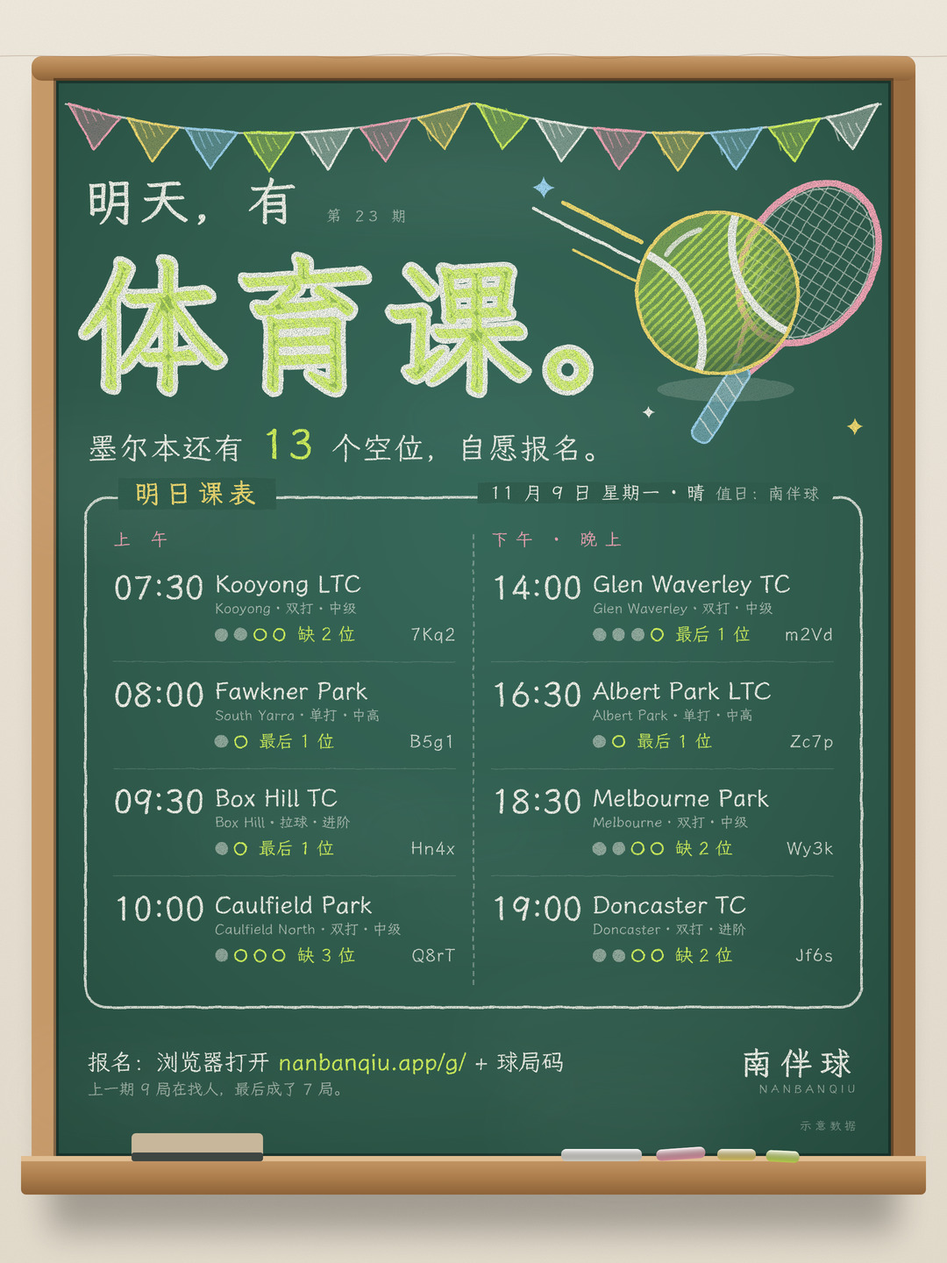
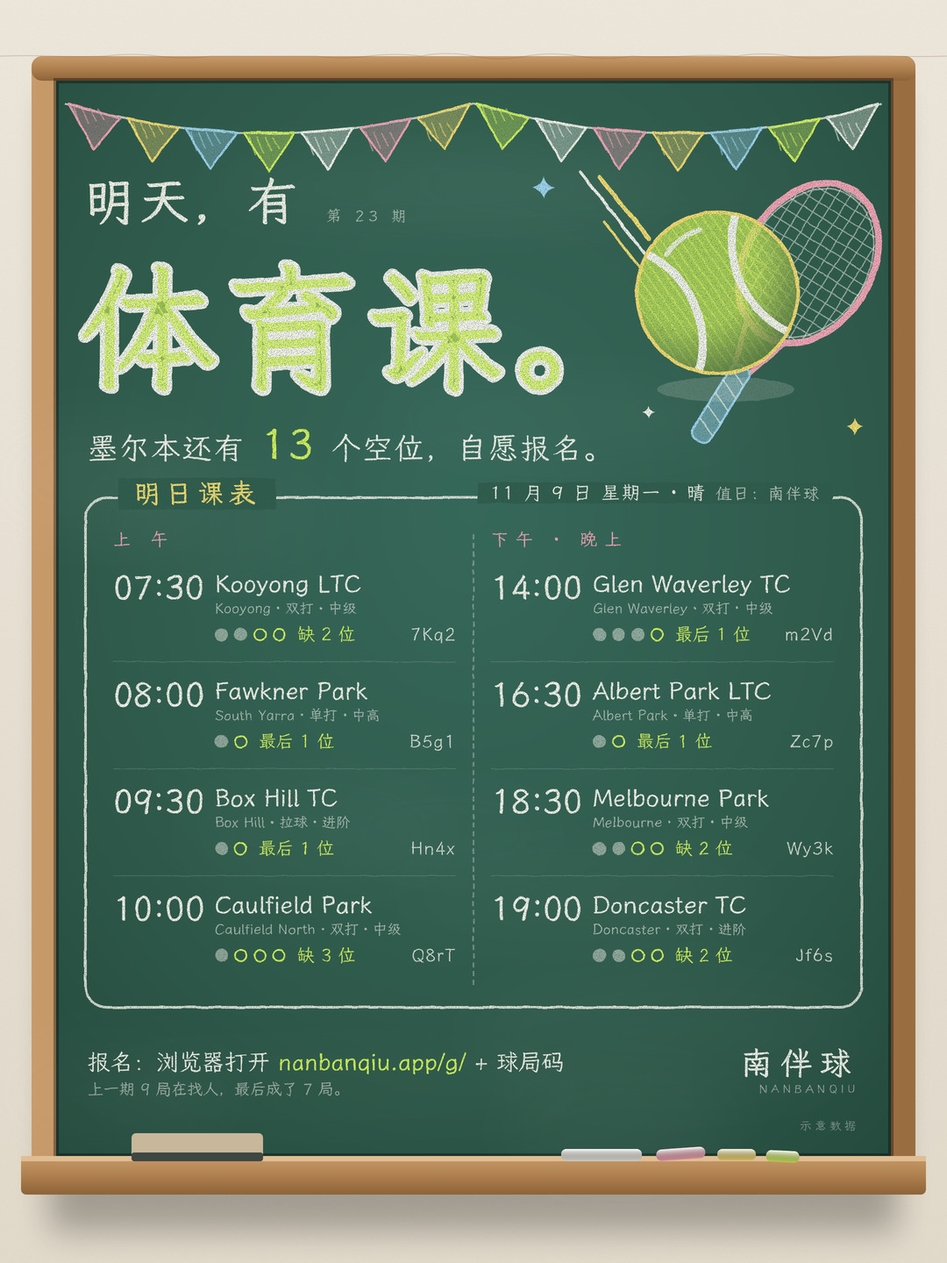
每日球局海报：黑板报模板系统（6 套皮肤每周一换 × 3 个创意每天轮换）
- chalkframe.SKINS：赶集 / 春日 / 夜场 / 花园 / 线描 / 国风，各自的板色、边框、装饰、标题字效、信息框样式；pick(日期) 决定当天组合
- 出图检查：插画压住文字也查 SVG 文字，按真实墨迹算；data-fx 光晕 / 影子层跳过；用真正盖住文字的反例验证会报错
- 修掉检查新抓出的问题：传纸条纸飞机、国风印章、挂板版速度线和球的排线、Rally 背景层命名
- 18 种组合 + 全部旧模板出图检查全过；演示数据

Claude-Session: https://claude.ai/code/session_014vi3eYkzAwaNbsywDq4bQj

Changed region(s): [[0.0917, 0.1875, 0.6417, 0.3125], [0.5806, 0.125, 0.8556, 0.3125]]

diff --git a/marketing/digest/chalkframe.py b/marketing/digest/chalkframe.py
@@ -5,6 +5,8 @@ from chalkbase import FONT_DIR, WK
 from common import *
 W_, LM, PK, YL, BL = '#F4F2EA', '#D4F25A', '#F5A3B5', '#F6DB6E', '#9ED3F0'
 SLATE = '#2F5A4B'
+CUR = ['fair']
+SEAL_AT = [(560, 404)]          # 国风印章位置，由版式设置
 BX0, BY0, BX1, BY1 = 64, 92, 1016, 1318
 
 def bunting():
@@ -21,10 +23,26 @@ def bunting():
     return f'<g class="art">{out}</g>'
 
 def title(text, x, y, size, fill='url(#hl)', stroke=W_):
-    return f'<text x="{x}" y="{y}" font-family="{WK}" font-weight="700" font-size="{size}" letter-spacing="6" fill="{fill}" stroke="{stroke}" stroke-width="{size*.068:.1f}" stroke-linejoin="round" paint-order="stroke">{text}</text>'
+    """标题字。fill='url(#hl)' 是强调行，按当前皮肤的字效画；其余是白粉笔行。"""
+    mode = SKINS[CUR[0]]['tmode']; hi = fill == 'url(#hl)'
+    base = f'x="{x}" y="{y}" font-family="{WK}" font-weight="700" font-size="{size}" letter-spacing="6"'
+    sw = f'{size*.068:.1f}'
+    if mode == 'hollow':   # 空心描边 + 错位影子
+        sh = f'<text data-fx="1" x="{x+7}" y="{y+7}" font-family="{WK}" font-weight="700" font-size="{size}" letter-spacing="6" fill="none" stroke="{LM if hi else BL}" stroke-width="2.6" opacity=".8">{text}</text>'
+        return sh + f'<text {base} fill="none" stroke="{W_}" stroke-width="3.4" stroke-linejoin="round">{text}</text>'
+    if not hi: return f'<text {base} fill="{fill}" stroke="{stroke}" stroke-width="{sw}" stroke-linejoin="round" paint-order="stroke">{text}</text>'
+    if mode == 'multi':    # 每个字一种颜色
+        pats = ['hp', 'hy', 'hb', 'hl']; tsp = ''.join(f'<tspan fill="url(#{pats[i % 4]})">{ch}</tspan>' for i, ch in enumerate(text))
+        return f'<text {base} stroke="{W_}" stroke-width="{sw}" stroke-linejoin="round" paint-order="stroke">{tsp}</text>'
+    if mode == 'neon':     # 霓虹：外层彩色光晕 + 白芯
+        c = SKINS[CUR[0]]['title']
+        return f'<text data-fx="1" {base} fill="{c}" opacity=".9" filter="url(#glow)">{text}</text><text {base} fill="{c}" stroke="#FFF7D6" stroke-width="2.4" paint-order="stroke">{text}</text>'
+    if mode == 'seal':     # 朱红 + 金描边
+        return f'<text {base} fill="url(#hl)" stroke="#E9C46A" stroke-width="{sw}" stroke-linejoin="round" paint-order="stroke">{text}</text>'
+    return f'<text {base} fill="url(#hl)" stroke="{stroke}" stroke-width="{sw}" stroke-linejoin="round" paint-order="stroke">{text}</text>'
 
-def framed(chalk_svg, chalk_html, css='', paper_html='', seed=7):
-    random.seed(seed)
+def framed(chalk_svg, chalk_html, css='', paper_html='', seed=7, skin='fair'):
+    random.seed(seed); K = SKINS[skin]
     wood = ''.join(f'<path d="M{x} 0 q 30 {random.randint(-6,6)} 60 0 t 60 0" stroke="#7A5233" stroke-opacity=".25" fill="none"/>' for x in range(0, 1080, 120))
     smudge = ''.join(f'<ellipse cx="{random.randint(BX0,BX1)}" cy="{random.randint(BY0,BY1)}" rx="{random.randint(120,320)}" ry="{random.randint(30,90)}" fill="#fff" opacity="{random.uniform(.015,.035):.3f}" filter="url(#bl)"/>' for _ in range(12))
     return f'''<!doctype html><meta charset="utf-8">
@@ -37,8 +55,9 @@ body{{width:1080px;height:1440px;overflow:hidden;position:relative;font-family:{
 .how{{position:absolute;left:100px;top:1200px;font-size:26px}} .how b{{color:{LM}}} .how small{{display:block;font-size:18px;opacity:.6;margin-top:4px}}
 .wm{{position:absolute;right:100px;top:1196px;text-align:right;font-weight:700;font-size:36px;letter-spacing:9px}} .wm small{{display:block;font-weight:400;font-size:13px;letter-spacing:4px;opacity:.55}}
 .demo{{position:absolute;right:100px;top:1278px;font-size:13px;letter-spacing:4px;opacity:.45}}
-.tagd{{position:absolute;font-size:21px;padding:0 14px;background:{SLATE};letter-spacing:2px}} .tagd small{{font-size:18px;opacity:.7;margin-left:10px}}
+.tagd{{position:absolute;font-size:21px;padding:0 14px;background:{K['board'][1]};letter-spacing:2px}} .tagd small{{font-size:18px;opacity:.7;margin-left:10px}}
 {css}
+{K.get('css', '')}
 </style><body>
 <svg class="fx" width="1080" height="1440"><defs>
 <filter id="chalk" x="-5%" y="-20%" width="110%" height="140%"><feTurbulence type="fractalNoise" baseFrequency="1.15" numOctaves="2" seed="2" result="n"/>
@@ -48,16 +67,19 @@ body{{width:1080px;height:1440px;overflow:hidden;position:relative;font-family:{
 <filter id="bl" filterUnits="userSpaceOnUse" x="-200" y="-200" width="1480" height="1840"><feGaussianBlur stdDeviation="36"/></filter>
 <filter id="sh" filterUnits="userSpaceOnUse" x="-100" y="-100" width="1280" height="1640"><feGaussianBlur stdDeviation="18"/></filter>
 <filter id="wall"><feTurbulence type="fractalNoise" baseFrequency=".8" numOctaves="2" seed="3"/><feColorMatrix values="0 0 0 0 .4  0 0 0 0 .35  0 0 0 0 .3  0 0 0 .12 0"/></filter>
-<linearGradient id="oak" x1="0" y1="0" x2="0" y2="1"><stop offset="0" stop-color="#C79A6A"/><stop offset=".5" stop-color="#B0814F"/><stop offset="1" stop-color="#8E6339"/></linearGradient>
-<linearGradient id="oakv" x1="0" y1="0" x2="1" y2="0"><stop offset="0" stop-color="#C79A6A"/><stop offset=".5" stop-color="#B0814F"/><stop offset="1" stop-color="#9A6D41"/></linearGradient>
-<radialGradient id="slate" cx="50%" cy="40%" r="80%"><stop offset="0" stop-color="#36685A"/><stop offset=".6" stop-color="{SLATE}"/><stop offset="1" stop-color="#244A3D"/></radialGradient>
+<linearGradient id="oak" x1="0" y1="0" x2="0" y2="1"><stop offset="0" stop-color="{K["frame"][0]}"/><stop offset=".5" stop-color="{K["frame"][1]}"/><stop offset="1" stop-color="{K["frame"][2]}"/></linearGradient>
+<linearGradient id="oakv" x1="0" y1="0" x2="1" y2="0"><stop offset="0" stop-color="{K["frame"][0]}"/><stop offset=".5" stop-color="{K["frame"][1]}"/><stop offset="1" stop-color="{K["frame"][2]}"/></linearGradient>
+<radialGradient id="slate" cx="50%" cy="40%" r="80%"><stop offset="0" stop-color="{K["board"][0]}"/><stop offset=".6" stop-color="{K["board"][1]}"/><stop offset="1" stop-color="{K["board"][2]}"/></radialGradient>
 <linearGradient id="stick" x1="0" y1="0" x2="0" y2="1"><stop offset="0" stop-color="#fff" stop-opacity=".9"/><stop offset="1" stop-color="#000" stop-opacity=".15"/></linearGradient>
-<pattern id="hl" width="9" height="9" patternUnits="userSpaceOnUse" patternTransform="rotate(-35)"><rect width="9" height="9" fill="{LM}" fill-opacity=".7"/><path d="M0 0 V9" stroke="{LM}" stroke-width="4"/></pattern>
+<pattern id="hl" width="9" height="9" patternUnits="userSpaceOnUse" patternTransform="rotate(-35)"><rect width="9" height="9" fill="{K["title"]}" fill-opacity=".7"/><path d="M0 0 V9" stroke="{K["title"]}" stroke-width="4"/></pattern>
+<pattern id="hy" width="9" height="9" patternUnits="userSpaceOnUse" patternTransform="rotate(-35)"><rect width="9" height="9" fill="{YL}" fill-opacity=".7"/><path d="M0 0 V9" stroke="{YL}" stroke-width="4"/></pattern>
+<pattern id="hb" width="9" height="9" patternUnits="userSpaceOnUse" patternTransform="rotate(-35)"><rect width="9" height="9" fill="{BL}" fill-opacity=".7"/><path d="M0 0 V9" stroke="{BL}" stroke-width="4"/></pattern>
+<filter id="glow" filterUnits="userSpaceOnUse" x="0" y="0" width="1080" height="1440"><feGaussianBlur stdDeviation="9"/></filter>
 <pattern id="hp" width="9" height="9" patternUnits="userSpaceOnUse" patternTransform="rotate(-35)"><rect width="9" height="9" fill="{PK}" fill-opacity=".6"/><path d="M0 0 V9" stroke="{PK}" stroke-width="4"/></pattern></defs>
 <rect width="1080" height="1440" filter="url(#wall)"/>
 <rect x="{BX0-8}" y="{BY0+16}" width="{BX1-BX0+16}" height="{BY1-BY0+70}" rx="10" fill="#000" opacity=".28" filter="url(#sh)"/>
 <rect x="{BX0-28}" y="{BY0-28}" width="{BX1-BX0+56}" height="{BY1-BY0+56}" rx="12" fill="url(#oakv)"/>
-<rect x="{BX0-28}" y="{BY0-28}" width="{BX1-BX0+56}" height="28" rx="12" fill="url(#oak)"/><g transform="translate(0 {BY0-28})">{wood}</g>
+<rect x="{BX0-28}" y="{BY0-28}" width="{BX1-BX0+56}" height="28" rx="12" fill="url(#oak)"/><g transform="translate(0 {BY0-28})">{wood if K["grain"] else ""}</g>
 <rect x="{BX0}" y="{BY0}" width="{BX1-BX0}" height="{BY1-BY0}" fill="url(#slate)"/>
 <rect x="{BX0}" y="{BY0}" width="{BX1-BX0}" height="{BY1-BY0}" fill="none" stroke="#000" stroke-opacity=".35" stroke-width="6"/>{smudge}
 <rect x="{BX0-40}" y="{BY1}" width="{BX1-BX0+80}" height="44" rx="6" fill="url(#oak)"/><rect x="{BX0-40}" y="{BY1}" width="{BX1-BX0+80}" height="6" fill="#E0BD92"/>
@@ -66,7 +88,7 @@ body{{width:1080px;height:1440px;overflow:hidden;position:relative;font-family:{
 <g transform="translate(818 {BY1-8})"><rect width="44" height="13" rx="6" fill="{YL}"/><rect width="44" height="13" rx="6" fill="url(#stick)"/></g>
 <g transform="translate(874 {BY1-7}) rotate(3)"><rect width="38" height="13" rx="6" fill="{LM}"/><rect width="38" height="13" rx="6" fill="url(#stick)"/></g>
 <g transform="translate(150 {BY1-26})"><rect width="150" height="28" rx="5" fill="#C8B79A"/><rect y="22" width="150" height="10" rx="3" fill="#3E4642"/></g></svg>
-<div class="chalk"><svg class="fx" width="1080" height="1440">{chalk_svg}</svg>{chalk_html}<div class="demo">示意数据</div></div>
+<div class="chalk"><svg class="fx" width="1080" height="1440">{K["top"]()}{K["bottom"]()}{K.get("sides", lambda: "")()}{chalk_svg}</svg>{chalk_html}</div>
 <div class="paper">{paper_html}</div></body>'''
 
 def date_tag(x, y, right=True):
@@ -74,4 +96,117 @@ def date_tag(x, y, right=True):
     return f'<div class="tagd" style="{side};top:{y}px">{TOMORROW.month} 月 {TOMORROW.day} 日 星期{WD[TOMORROW.weekday()]} · 晴<small>值日：南伴球</small></div>'
 
 def how(verb='报名'):
-    return f'<div class="how">{verb}：浏览器打开 <b>{SITE}/g/</b> + 球局码<small>上一期 {LAST[0]} 局在找人，最后成了 {LAST[1]} 局。</small></div><div class="wm">南伴球<small>NANBANQIU</small></div>'
+    return f'<div class="how">{verb}：浏览器打开 <b>{SITE}/g/</b> + 球局码<small>上一期 {LAST[0]} 局在找人，最后成了 {LAST[1]} 局。· 示意数据</small></div><div class="wm">南伴球<small>NANBANQIU</small></div>'
+
+
+# ================= 主题皮肤（每周一换）=================
+# 装饰只放在顶部带（y < 186）、底部带（y > 1268）和边框内侧，不碰内容区；都标 class="art"，压住文字会被出图检查拦下。
+import math
+def _g(x): return f'<g class="art">{x}</g>'
+def _rng(seed): r = random.Random(seed); return r
+
+def _leaf(x, y, L, ang, c, op=.45):
+    a = math.radians(ang); ex, ey = x + L * math.cos(a), y + L * math.sin(a); nx, ny = -math.sin(a) * L * .28, math.cos(a) * L * .28
+    mx, my = (x + ex) / 2, (y + ey) / 2
+    return (f'<path d="M{x:.0f} {y:.0f} Q{mx+nx:.0f} {my+ny:.0f} {ex:.0f} {ey:.0f} Q{mx-nx:.0f} {my-ny:.0f} {x:.0f} {y:.0f}Z" fill="{c}" fill-opacity="{op}" stroke="{c}" stroke-width="2.6"/>'
+            f'<path d="M{x:.0f} {y:.0f} L{ex:.0f} {ey:.0f}" stroke="{c}" stroke-width="1.6" opacity=".8"/>')
+
+def _flower(x, y, r, c, core=YL):
+    p = ''.join(f'<ellipse cx="{x + r*math.cos(math.radians(k*72)):.1f}" cy="{y + r*math.sin(math.radians(k*72)):.1f}" rx="{r*.75:.1f}" ry="{r*.5:.1f}" transform="rotate({k*72} {x + r*math.cos(math.radians(k*72)):.1f} {y + r*math.sin(math.radians(k*72)):.1f})" fill="{c}" fill-opacity=".5" stroke="{c}" stroke-width="2"/>' for k in range(5))
+    return p + f'<circle cx="{x}" cy="{y}" r="{r*.45:.1f}" fill="{core}"/>'
+
+def _star(x, y, s, c): return f'<path d="M{x} {y-s} Q{x+s*.18} {y-s*.18} {x+s} {y} Q{x+s*.18} {y+s*.18} {x} {y+s} Q{x-s*.18} {y+s*.18} {x-s} {y} Q{x-s*.18} {y-s*.18} {x} {y-s}Z" fill="{c}"/>'
+
+def meadow_top():
+    sun = f'<circle cx="118" cy="138" r="24" fill="{YL}" fill-opacity=".55" stroke="{YL}" stroke-width="3"/>' + ''.join(f'<path d="M{118+32*math.cos(math.radians(k*45)):.0f} {138+32*math.sin(math.radians(k*45)):.0f} l{12*math.cos(math.radians(k*45)):.0f} {12*math.sin(math.radians(k*45)):.0f}" stroke="{YL}" stroke-width="3" stroke-linecap="round"/>' for k in range(8))
+    vine = f'<path d="M190 128 C 330 98, 430 168, 560 128 S 820 96, 1000 132" stroke="{LM}" stroke-width="3" fill="none" opacity=".8"/>'
+    r = _rng(3); lv = ''.join(_leaf(x, 128 + 20 * math.sin(x / 70), r.randint(22, 32), r.choice((-60, -120, 60, 120)), r.choice((LM, '#8FD18B'))) for x in range(220, 1000, 52))
+    fl = _flower(470, 140, 9, PK) + _flower(760, 112, 8, W_) + _flower(930, 128, 9, PK)
+    return _g(sun + vine + lv + fl)
+def meadow_bottom():
+    r = _rng(9); g = ''.join(f'<path d="M{x} 1318 q{r.randint(-6,6)} -{r.randint(18,40)} {r.randint(-8,8)} -{r.randint(26,46)}" stroke="{r.choice((LM, "#8FD18B", "#6FBF73"))}" stroke-width="2.6" fill="none"/>' for x in range(70, 1012, 9))
+    d = ''.join(_flower(x, 1290, 7, W_) for x in (120, 330, 560, 820, 960)) + ''.join(_flower(x, 1296, 6, PK) for x in (220, 690))
+    return _g(g + d)
+
+def night_top():
+    pts = [(70 + i * 62, 112 + 46 * 4 * (i / 15) * (1 - i / 15)) for i in range(16)]
+    wire = f'<path d="M70 112 Q 540 204 1010 112" stroke="{W_}" stroke-width="2" fill="none" opacity=".7"/>'
+    bulbs = ''.join(f'<circle cx="{x:.0f}" cy="{y+14:.0f}" r="16" fill="{YL}" opacity=".18"/><ellipse cx="{x:.0f}" cy="{y+14:.0f}" rx="7" ry="9" fill="{YL}" fill-opacity=".7" stroke="{YL}" stroke-width="2"/><path d="M{x-4:.0f} {y+3:.0f} h8" stroke="{W_}" stroke-width="3"/>' for x, y in pts[1:-1])
+    r = _rng(5); st = ''.join(_star(r.randint(90, 990), r.randint(98, 176), r.choice((5, 6, 8)), r.choice((W_, BL, YL))) for _ in range(9))
+    moon = f'<path d="M972 104 a 26 26 0 1 0 22 40 a 20 20 0 1 1 -22 -40Z" fill="{YL}" fill-opacity=".6" stroke="{YL}" stroke-width="2.5"/>'
+    return _g(wire + bulbs + st + moon)
+def night_bottom():
+    r = _rng(7); x = 70; sk = ''
+    while x < 1010:
+        w = r.randint(28, 60); h = r.randint(14, 46)
+        sk += f'<rect x="{x}" y="{1318-h}" width="{w}" height="{h}" fill="none" stroke="{W_}" stroke-width="2" opacity=".55"/>' + ''.join(f'<rect x="{x+6+k*10}" y="{1318-h+6}" width="4" height="5" fill="{YL}" opacity=".7"/>' for k in range(max(1, (w-8)//10)) if r.random() < .5)
+        x += w + r.randint(0, 6)
+    spire = f'<path d="M530 1318 V1272 L540 1250 L550 1272 V1318" fill="none" stroke="{W_}" stroke-width="2.4" opacity=".7"/>'
+    return _g(sk + spire)
+
+def garden_corner(x, y, flip=1, vflip=1, seed=1):
+    r = _rng(seed); out = ''
+    for k in range(9):
+        ang = (r.randint(-10, 80) if flip > 0 else r.randint(100, 190)) * (1 if vflip > 0 else -1)
+        out += _leaf(x + flip * r.randint(0, 40), y + vflip * r.randint(0, 20), r.randint(40, 78), ang, r.choice((LM, '#7FC8A9', '#B9E07A', BL)), .4)
+    out += _flower(x + flip * 70, y + vflip * 46, 11, PK) + _flower(x + flip * 120, y + vflip * 22, 8, W_) + _flower(x + flip * 30, y + vflip * 70, 7, YL, PK)
+    return out
+def garden_top(): return _g(garden_corner(76, 100, 1, 1, 2)) + _g(garden_corner(1004, 100, -1, 1, 4))
+def garden_bottom():
+    r = _rng(8); out = ''
+    for x0, fl in ((76, 1), (1004, -1)):
+        for k in range(7): out += _leaf(x0 + fl * r.randint(0, 120), 1314, r.randint(30, 50), (r.randint(-150, -100) if fl > 0 else r.randint(-80, -30)), r.choice((LM, '#7FC8A9', '#B9E07A')), .4)
+        out += _flower(x0 + fl * 60, 1288, 8, PK) + _flower(x0 + fl * 150, 1296, 6, W_)
+    return _g(out)
+
+def doodle_top():
+    plane = f'<path d="M110 168 C 200 100, 260 190, 340 132 S 420 110, 440 120" stroke="{W_}" stroke-width="2.4" fill="none" stroke-dasharray="5 8"/><g transform="translate(462 118) rotate(-14)"><path d="M0 0 L-44 -14 L-30 4Z M0 0 L-30 4 L-34 18Z" fill="none" stroke="{W_}" stroke-width="2.6" stroke-linejoin="round"/></g>'
+    cloud = lambda x, y: f'<path d="M{x} {y} q -4 -22 18 -24 q 8 -20 30 -10 q 22 -8 26 14 q 18 4 10 20 Z" fill="none" stroke="{W_}" stroke-width="2.6" stroke-linejoin="round"/>'
+    racket = f'<g transform="translate(860 140) rotate(40)"><ellipse rx="20" ry="27" fill="none" stroke="{W_}" stroke-width="2.6"/><path d="M0 27 V58" stroke="{W_}" stroke-width="4" stroke-linecap="round"/>{"".join(f"<path d='M{x} -24 V24' stroke='{W_}' stroke-width='1' opacity='.6'/>" for x in (-10, 0, 10))}</g><circle cx="914" cy="116" r="10" fill="none" stroke="{LM}" stroke-width="2.6"/>'
+    return _g(plane + cloud(600, 150) + cloud(720, 120) + racket + _star(980, 150, 9, W_) + _star(540, 110, 6, LM))
+def doodle_bottom():
+    return _g(f'<path d="M80 1300 H1000" stroke="{W_}" stroke-width="2" stroke-dasharray="2 10" stroke-linecap="round" opacity=".7"/>' + ''.join(f'<path d="M{x} 1300 q -6 -14 -14 -16 M{x} 1300 q 6 -16 14 -18 M{x} 1300 v-20" stroke="{LM}" stroke-width="2.2" fill="none"/>' for x in (180, 420, 660, 900)))
+
+RED, GOLD = '#E8735C', '#E9C46A'
+def guofeng_top():
+    cloud = lambda x, y, s: f'<g transform="translate({x} {y}) scale({s})" fill="none" stroke="{GOLD}" stroke-width="2.6" stroke-linecap="round"><path d="M0 0 c 0 -18 26 -18 26 0 c 0 -24 36 -24 36 0 c 0 -14 22 -14 22 2 M-6 8 H96"/><path d="M14 8 c 0 10 14 10 14 0" /></g>'
+    lantern = lambda x, l: f'<path d="M{x} 92 V{92+l}" stroke="{GOLD}" stroke-width="2"/><ellipse cx="{x}" cy="{92+l+24}" rx="20" ry="24" fill="{RED}" fill-opacity=".55" stroke="{RED}" stroke-width="2.6"/><path d="M{x} {92+l} v48 M{x-12} {92+l+6} q-6 18 0 36 M{x+12} {92+l+6} q6 18 0 36" stroke="{GOLD}" stroke-width="1.6" fill="none"/><path d="M{x} {92+l+48} v14" stroke="{RED}" stroke-width="3"/>'
+    branch = f'<path d="M1012 104 C 930 112, 880 150, 800 140 S 700 120, 660 132" stroke="#B58A6B" stroke-width="5" fill="none" stroke-linecap="round"/><path d="M880 128 q -20 -18 -50 -20 M760 136 q 0 20 -24 30" stroke="#B58A6B" stroke-width="3" fill="none"/>' + ''.join(_flower(x, y, 7, PK, W_) for x, y in ((960, 112), (900, 140), (830, 108), (790, 150), (720, 128), (668, 132))) + ''.join(f'<circle cx="{x}" cy="{y}" r="3.4" fill="{PK}"/>' for x, y in ((940, 132), (852, 146), (744, 116)))
+    return _g(lantern(118, 18) + lantern(196, 4)) + _g(cloud(300, 150, 1) + cloud(470, 124, .8)) + _g(branch)
+def guofeng_bottom():
+    return _g(''.join(f'<path d="M{x} 1306 c 20 -18 40 -18 60 0 s 40 18 60 0" stroke="{GOLD}" stroke-width="2.4" fill="none" opacity=".75"/>' for x in range(80, 960, 120)))
+
+def vine_sides(c1=LM, c2='#7FC8A9', seed=11):
+    r = _rng(seed); out = ''
+    for x, fl in ((76, 1), (1004, -1)):
+        for y0, y1 in ((200, 540), (1110, 1270)):
+            seg = f'<path d="M{x} {y0} C {x+fl*10} {y0+(y1-y0)*.3:.0f}, {x-fl*8} {y0+(y1-y0)*.6:.0f}, {x} {y1}" stroke="{c1}" stroke-width="2.4" fill="none" opacity=".8"/>'
+            for y in range(y0 + 16, y1, 34): seg += _leaf(x, y, r.randint(14, 18), (r.choice((-40, 40)) if fl > 0 else r.choice((140, 220))), r.choice((c1, c2)), .45)
+            out += _g(seg)          # 每段单独一组，出图检查按各自的外框算
+    return out
+
+def seal():
+    x, y = SEAL_AT[0]
+    return _g(f'<g transform="translate({x} {y}) rotate(-6)"><rect width="76" height="76" rx="6" fill="{RED}" fill-opacity=".75" stroke="{RED}" stroke-width="3"/><text x="38" y="34" text-anchor="middle" font-family="{WK}" font-weight="700" font-size="26" fill="#F6EBDD">南伴</text><text x="38" y="64" text-anchor="middle" font-family="{WK}" font-weight="700" font-size="26" fill="#F6EBDD">球局</text></g>')
+
+SKINS = {
+  'fair':    dict(name='赶集', tmode='hatch',  board=('#36685A', '#2F5A4B', '#244A3D'), frame=('#C79A6A', '#B0814F', '#8E6339'), grain=True,  title=LM, top=bunting,      bottom=lambda: ''),
+  'meadow':  dict(name='春日', tmode='hatch',  board=('#3A6E58', '#315F4C', '#264C3D'), frame=('#D4B48A', '#BE9566', '#9B7244'), grain=True,  title=YL, top=meadow_top,   bottom=meadow_bottom, sides=lambda: vine_sides(LM, '#8FD18B', 3),
+                  css='.box{border-style:dashed!important;border-width:3px!important}'),
+  'night':   dict(name='夜场', tmode='neon',   board=('#2E3533', '#252B2A', '#1A1F1E'), frame=('#C9CED1', '#9AA2A6', '#6E777B'), grain=False, title=YL, top=night_top,    bottom=night_bottom,
+                  css='.box{border:6px double rgba(244,242,234,.75)!important;border-radius:6px!important}'),
+  'garden':  dict(name='花园', tmode='multi',  board=('#356A5C', '#2D5B4F', '#224740'), frame=('#E2CCA8', '#CDB088', '#A8875F'), grain=True,  title=PK, top=garden_top,   bottom=garden_bottom, sides=lambda: vine_sides(PK, '#7FC8A9', 5),
+                  css='.box{border:4px dotted rgba(245,163,181,.9)!important;border-radius:34px!important}'),
+  'doodle':  dict(name='线描', tmode='hollow', board=('#2C3431', '#232A28', '#1A201E'), frame=('#3B3F3E', '#2A2D2C', '#1C1E1D'), grain=False, title=LM, top=doodle_top,   bottom=doodle_bottom,
+                  css='.box{border:2.5px dashed rgba(244,242,234,.8)!important;border-radius:4px 30px 6px 24px!important}'),
+  'guofeng': dict(name='国风', tmode='seal',   board=('#2F4A42', '#273F38', '#1D312B'), frame=('#7A4A30', '#653B24', '#4A2A18'), grain=True,  title=RED, top=guofeng_top, bottom=guofeng_bottom, sides=seal,
+                  css='.box{border:3px solid rgba(233,196,106,.85)!important;border-radius:0!important;outline:1.5px solid rgba(233,196,106,.5);outline-offset:-12px} .tab{color:#E9C46A!important}'),
+}
+SKIN_ORDER = ['fair', 'meadow', 'night', 'garden', 'doodle', 'guofeng']
+CONCEPT_BY_WEEKDAY = ['roll', 'seats', 'notes', 'roll', 'notes', 'seats', 'notes']   # 周一…周日（发帖当天）
+
+def pick(day):
+    """发帖日 → (皮肤, 创意)。皮肤按 ISO 周轮换（周一换），创意按星期轮换。"""
+    import datetime as _d
+    wk = day.isocalendar()[1]
+    return SKIN_ORDER[wk % len(SKIN_ORDER)], CONCEPT_BY_WEEKDAY[day.weekday()]

diff --git a/marketing/digest/chalk4.py b/marketing/digest/chalk4.py
@@ -3,7 +3,7 @@
 import random
 from chalkframe import *
 from timetable import GAMES, spots, level_word
-_v = ['roll']
+_v = ['roll']; _skin = ['fair']
 EX = {'roll': ['还有谁没到', f'{spots()}', '7Kq2'], 'notes': ['传纸条', f'{spots()}个空位', '7Kq2'], 'seats': ['这里有人吗', f'{spots()}个座', '7Kq2']}
 def EXPECT(): return EX[_v[0]]
 def HEADLINE(): return (str(spots()), '.kn')
@@ -38,7 +38,7 @@ def roll():
                     c = random.choice([W_, W_, W_, PK, BL]); cells += f'<i class="got" style="color:{c}"><span style="transform:rotate({random.randint(-12,12)}deg);font-size:{random.randint(22,29)}px;font-weight:{random.choice((400,700))}">到</span></i>'
                 else: cells += '<i class="open"></i>'
             rows += f'<div class="row"><b class="t">{g[0]}</b><div class="v"><b>{esc(g[2])}</b><s>{esc(g[3])} · {meta(g)} · {g[9]}</s></div><div class="cells">{cells}</div><b class="lime n">缺 {need(g)}</b></div>'
-    svg = bunting() + title('还有谁', 96, 326, 120, fill=W_, stroke='#2F5A4B') + title('没到？', 96, 470, 150) + hand()
+    svg = title('还有谁', 96, 326, 120, fill=W_, stroke='#2F5A4B') + title('没到？', 96, 470, 150) + hand()
     html_ = f'''<div class="iss">明天点名 · 第 {ISSUE} 期</div>
 <div class="sub">明天 {len(GAMES)} 节课，<span class="kn">{spots()}</span> 个位置还没人喊「到」。</div>
 <div class="box"><div class="tab">点名册</div>{rows}</div>{date_tag(130, 570)}{how('喊到')}'''
@@ -51,7 +51,7 @@ def roll():
 .t{{font-size:30px}} .v b{{display:block;font-size:24px;white-space:nowrap}} .v s{{display:block;font-size:14px;opacity:.6;white-space:nowrap}}
 .cells{{display:flex;gap:8px}} .cells i{{width:42px;height:42px;display:flex;align-items:center;justify-content:center}}
 .got{{border:2px solid rgba(244,242,234,.45)}} .got span{{display:block}} .open{{border:2.6px dashed {LM}}} .n{{font-size:24px;text-align:right}}'''
-    return framed(svg, html_, css, seed=12)
+    return framed(svg, html_, css, seed=12, skin=_skin[0])
 
 # ---------- 传纸条 ----------
 def notes():
@@ -63,9 +63,9 @@ def notes():
         c, r = i % 2, i // 2; x = 100 + c * 452 + random.randint(-6, 6); y = 548 + r * 158 + random.randint(-5, 5); rot = random.choice((-2.2, -1.2, 1, 1.8, -0.6, 2.4))
         paper += f'''<div class="note" style="left:{x}px;top:{y}px;transform:rotate({rot}deg)"><i class="mag" style="background:radial-gradient(circle at 35% 30%,#fff 0 12%,{mag[i%4]} 40%,{mag[i%4]})"></i>
 <b>{when(g[0])} {g[0]} · {esc(g[2])}</b><s>{meta(g)} · 还差 {need(g)} 人<u>{g[9]}</u></s><p>去吗？<em></em>去<em></em>当然去</p></div>'''
-    plane = f'''<g class="art"><path d="M640 300 C 700 250, 760 330, 830 270 S 900 220, 930 230" fill="none" stroke="{W_}" stroke-width="2.6" stroke-dasharray="6 9" opacity=".7"/>
+    plane = f'''<g class="art"><path d="M768 296 C 800 262, 822 316, 862 276 S 908 228, 930 230" fill="none" stroke="{W_}" stroke-width="2.6" stroke-dasharray="6 9" opacity=".7"/>
 <g transform="translate(948 222) rotate(-18)"><path d="M0 0 L-64 -22 L-46 6Z" fill="{W_}" fill-opacity=".35" stroke="{W_}" stroke-width="3.2" stroke-linejoin="round"/><path d="M0 0 L-46 6 L-52 26Z" fill="{W_}" fill-opacity=".15" stroke="{W_}" stroke-width="3.2" stroke-linejoin="round"/><path d="M0 0 L-46 6" stroke="{W_}" stroke-width="2"/></g></g>'''
-    svg = bunting() + title('传纸条。', 96, 400, 156) + plane
+    svg = title('传纸条。', 96, 400, 156) + plane
     html_ = f'''<div class="iss">{TOMORROW.month} 月 {TOMORROW.day} 日 星期{WD[TOMORROW.weekday()]} · 第 {ISSUE} 期</div><div class="sub">明天 {len(GAMES)} 张纸条，<span class="kn">{spots()}</span> 个空位，就差你打个勾。</div>{how('打勾')}'''
     css = f'''.iss{{position:absolute;left:100px;top:206px;font-size:22px;letter-spacing:6px;opacity:.75}}
 .sub{{position:absolute;left:100px;top:432px;font-size:30px}} .kn{{color:{LM};font-size:42px;font-weight:700;padding:0 4px}}
@@ -76,7 +76,7 @@ def notes():
 .mag{{position:absolute;left:50%;top:-12px;width:26px;height:26px;margin-left:-13px;border-radius:50%;box-shadow:0 3px 5px rgba(0,0,0,.4)}}
 .note b{{display:block;font-size:23px;font-weight:700;white-space:nowrap}} .note s{{display:flex;font-size:18px;margin-top:6px;opacity:.85}} .note s u{{margin-left:auto;font-size:16px;color:#7A7F8C;letter-spacing:1px}}
 .note p{{font-size:21px;margin-top:8px;display:flex;align-items:center;gap:6px}} .note em{{display:inline-block;width:20px;height:20px;border:2px solid #26386A;margin-left:14px;border-radius:2px}}'''
-    return framed(svg, html_, css, paper_html=paper, seed=18)
+    return framed(svg, html_, css, paper_html=paper, seed=18, skin=_skin[0])
 
 # ---------- 这里有人吗？ ----------
 def desks(n, x0, y0, have):
@@ -97,7 +97,7 @@ def seats():
         art += '<g class="art">' + desks(CAP[g[4]], x, y + (33 if CAP[g[4]] == 2 else 0), g[7]) + '</g>'
         ev = '<em class="pink">放学别走</em>' if int(g[0][:2]) >= 17 else ''
         cells += f'<div class="seat" style="left:{x+164}px;top:{y-6}px"><b class="t">{g[0]}{ev}</b><b class="vn">{esc(g[2])}</b><s>{esc(g[3])} · {meta(g)}</s><p><span class="lime">空 {need(g)} 座</span><u>{g[9]}</u></p></div>'
-    svg = bunting() + title('这里', 96, 330, 124, fill=W_, stroke='#2F5A4B') + title('有人吗？', 360, 330, 124) + f'''
+    svg = title('这里', 96, 330, 124, fill=W_, stroke='#2F5A4B') + title('有人吗？', 360, 330, 124) + f'''
 <rect x="390" y="452" width="300" height="46" rx="4" fill="none" stroke="{W_}" stroke-width="3"/><text x="540" y="484" text-anchor="middle" font-family="{WK}" font-size="24" letter-spacing="14" fill="{W_}">讲台</text>''' + art
     html_ = f'''<div class="iss">明天的座位表 · {TOMORROW.month} 月 {TOMORROW.day} 日 星期{WD[TOMORROW.weekday()]} · 第 {ISSUE} 期</div><div class="sub">明天还有 <span class="kn">{spots()}</span> 个座，没人。</div>{cells}{how('占座')}'''
     css = f'''.iss{{position:absolute;left:100px;top:196px;font-size:22px;letter-spacing:6px;opacity:.75}}
@@ -106,8 +106,9 @@ def seats():
 .seat{{position:absolute;width:270px}} .seat .t{{display:flex;align-items:baseline;gap:12px;font-size:30px}} .seat .t em{{font-size:17px;letter-spacing:3px}}
 .seat .vn{{display:block;font-size:23px;white-space:nowrap}} .seat s{{display:block;font-size:14px;opacity:.6;white-space:nowrap;margin-top:2px}}
 .seat p{{display:flex;font-size:21px;margin-top:6px}} .seat p u{{margin-left:auto;font-size:19px;opacity:.85;letter-spacing:1px}}'''
-    return framed(svg, html_, css, seed=27)
+    return framed(svg, html_, css, seed=27, skin=_skin[0])
 
 def html(v='roll'):
-    _v[0] = v
+    v, _, skin = v.partition('@'); _v[0] = v; _skin[0] = skin or 'fair'
+    import chalkframe; chalkframe.CUR[0] = _skin[0]; chalkframe.SEAL_AT[0] = {'roll': (606, 392), 'notes': (800, 336), 'seats': (900, 372)}[v]
     return {'roll': roll, 'notes': notes, 'seats': seats}[v]()

diff --git a/marketing/digest/render.py b/marketing/digest/render.py
@@ -8,7 +8,7 @@ from PIL import Image, ImageDraw, ImageOps, ImageStat  # noqa: E402
 import zxingcpp  # noqa: E402
 HERE = os.path.dirname(os.path.abspath(__file__))
 OUT = os.environ.get('DIGEST_OUT', '/tmp/digest_out'); os.makedirs(OUT, exist_ok=True)
-SVG_CHECK = open(os.path.join(HERE, '..', 'build.py')).read().split("TEXT_CHECK = '''")[1].split("'''")[0].replace('H = 1350', 'H = 1440')
+SVG_CHECK = open(os.path.join(HERE, '..', 'build.py')).read().split("TEXT_CHECK = '''")[1].split("'''")[0].replace('H = 1350', 'H = 1440').replace("querySelectorAll('svg text')", "querySelectorAll('svg text:not([data-fx])')")   # data-fx = 有意叠在正文上的光晕 / 影子层
 HTML_CHECK = '''() => { const W = 1080, H = 1440, M = 24, out = [], boxes = [], ctx = document.createElement('canvas').getContext('2d');
   const w = document.createTreeWalker(document.body, NodeFilter.SHOW_TEXT);
   while (w.nextNode()) { const n = w.currentNode, s = n.textContent.trim(); if (!s || n.parentElement.closest('svg')) continue;
@@ -18,9 +18,15 @@ HTML_CHECK = '''() => { const W = 1080, H = 1440, M = 24, out = [], boxes = [], 
     const cs = getComputedStyle(n.parentElement); ctx.font = `${cs.fontStyle} ${cs.fontWeight} ${cs.fontSize} ${cs.fontFamily}`; const m = ctx.measureText(s);
     for (const q of r.getClientRects()) if (q.width > 2) { const top = q.top + (m.fontBoundingBoxAscent - m.actualBoundingBoxAscent);
       boxes.push({ s, x: q.left, y: top, r: q.right, b: q.top + m.fontBoundingBoxAscent + m.actualBoundingBoxDescent }) } }
+  for (const e of document.querySelectorAll('svg text:not([data-fx])')) { if (e.closest('.art')) continue;   // SVG 里的字也参加「插画压住文字」检查（插画自带的字除外）
+    const q = e.getBoundingClientRect(); if (q.width <= 2) continue;
+    const cs = getComputedStyle(e), sc = q.height / (parseFloat(cs.fontSize) * 1.0 || 1);   // 按真实墨迹算（全角句号、字间距会让外框比字大）
+    ctx.font = `${cs.fontStyle} ${cs.fontWeight} ${cs.fontSize} ${cs.fontFamily}`; ctx.letterSpacing = cs.letterSpacing || '0px'; const m = ctx.measureText((e.textContent || '').trim());
+    const top = q.top + (m.fontBoundingBoxAscent - m.actualBoundingBoxAscent);
+    boxes.push({ s: (e.textContent || '').trim(), x: q.left + Math.max(0, -m.actualBoundingBoxLeft), y: top, r: q.left + m.actualBoundingBoxRight, b: q.top + m.fontBoundingBoxAscent + m.actualBoundingBoxDescent, svg: true }) }
   for (const a of document.querySelectorAll('.art')) { const g = a.getBoundingClientRect();   // 插画（标了 class="art" 的图形）压住文字
     for (const t of boxes) { const w = Math.min(g.right, t.r) - Math.max(g.left, t.x), h = Math.min(g.bottom, t.b) - Math.max(g.top, t.y); if (w > 4 && h > 4) out.push(`图形压住文字：「${t.s.slice(0, 10)}」`) } }
-  for (let i = 0; i < boxes.length; i++) for (let j = i + 1; j < boxes.length; j++) {   // HTML 文字互相压住（第一版只查了 SVG，漏过一次）
+  for (let i = 0; i < boxes.length; i++) for (let j = i + 1; j < boxes.length; j++) { if (boxes[i].svg || boxes[j].svg) continue;   // SVG 字之间由 SVG_CHECK 查   // HTML 文字互相压住（第一版只查了 SVG，漏过一次）
     const a = boxes[i], c = boxes[j], w = Math.min(a.r, c.r) - Math.max(a.x, c.x), h = Math.min(a.b, c.b) - Math.max(a.y, c.y);
     if (w > 3 && h > 3) out.push(`文字压住：「${a.s.slice(0, 10)}」和「${c.s.slice(0, 10)}」`) }
   for (const e of document.querySelectorAll('body *')) if (e.scrollWidth > e.clientWidth + 1 && getComputedStyle(e).textOverflow === 'ellipsis') out.push(`被截断：「${e.textContent.trim().slice(0, 14)}」`);
@@ -33,7 +39,7 @@ with sync_playwright() as p, tempfile.TemporaryDirectory() as tmp:
     for job in JOBS:
         name, _, theme = job.partition(':'); mod = importlib.import_module(name)
         doc = mod.html(theme) if theme else (mod.html() if hasattr(mod, 'html') else mod.svg())
-        out = name + ('-' + theme if theme else '')
+        out = name + ('-' + theme.replace('@', '-') if theme else '')
         h = os.path.join(tmp, out + '.html'); open(h, 'w').write(doc)
         pg.goto('file://' + h); pg.evaluate('document.fonts.ready'); pg.wait_for_timeout(300)
         png = os.path.join(OUT, out + '@2x.png'); pg.screenshot(path=png)

diff --git a/marketing/digest/chalk3.py b/marketing/digest/chalk3.py
@@ -27,7 +27,7 @@ def bunting():
 
 def hero():
     cx, cy, r = 818, 334, 92
-    hatch = ''.join(f'<path d="M{cx-r-20+k*11} {cy+r+20} l{r*2+40} {-r*2-40}" stroke="{LM}" stroke-width="3.2" opacity=".75"/>' for k in range(-8, 26))
+    hatch = f'<circle cx="{cx}" cy="{cy}" r="{r}" fill="url(#hl)" opacity=".8"/>'          # 排线用纹理填，外框和看到的一致
     racket = f'''<g transform="translate(922 300) rotate(32) scale(.84)">
  <clipPath id="rh"><ellipse rx="86" ry="116"/></clipPath>
  <g clip-path="url(#rh)" stroke="{W_}" stroke-width="1.6" opacity=".55">{''.join(f'<path d="M{x} -130 V130"/>' for x in range(-80, 90, 16))}{''.join(f'<path d="M-100 {y} H100"/>' for y in range(-110, 120, 16))}</g>
@@ -42,7 +42,7 @@ def hero():
  <path d="M{cx-62} {cy-80} C {cx-18} {cy-36}, {cx-18} {cy+36}, {cx-62} {cy+80} M{cx+62} {cy-80} C {cx+18} {cy-36}, {cx+18} {cy+36}, {cx+62} {cy+80}" stroke="{W_}" stroke-width="9" fill="none" stroke-linecap="round" transform="rotate(-24 {cx} {cy})"/></g>
 <circle cx="{cx}" cy="{cy}" r="{r}" fill="none" stroke="{YL}" stroke-width="4"/>
 <path d="M{cx-58} {cy-44} A {r-22} {r-22} 0 0 1 {cx-20} {cy-72}" stroke="{W_}" stroke-width="6" fill="none" stroke-linecap="round" opacity=".85"/>'''
-    streaks = ''.join(f'<path d="M{cx-r+6-k*4} {cy-58+k*22} l{-L} {-L*.5:.0f}" stroke="{c}" stroke-width="{w}" stroke-linecap="round"/>' for k, L, c, w in ((0, 90, YL, 5), (1, 120, W_, 3.5), (2, 70, YL, 3)))
+    streaks = ''.join(f'<path d="M{cx-r+14-k*4} {cy-62+k*18} l{-L*.62:.0f} {-L*.78:.0f}" stroke="{c}" stroke-width="{w}" stroke-linecap="round"/>' for k, L, c, w in ((0, 90, YL, 5), (1, 120, W_, 3.5), (2, 70, YL, 3)))
     star = lambda x, y, s, c: f'<path d="M{x} {y-s} Q{x+s*.18} {y-s*.18} {x+s} {y} Q{x+s*.18} {y+s*.18} {x} {y+s} Q{x-s*.18} {y+s*.18} {x-s} {y} Q{x-s*.18} {y-s*.18} {x} {y-s}Z" fill="{c}"/>'
     stars = star(620, 214, 13, BL) + star(975, 486, 10, YL) + star(740, 470, 7, W_)
     return f'<g class="art">{racket}</g><g class="art">{streaks}</g><g class="art">{ball}</g>{stars}'
@@ -106,7 +106,7 @@ body{{width:1080px;height:1440px;overflow:hidden;position:relative;font-family:{
 <g transform="translate(150 {BY1-26})"><rect width="150" height="28" rx="5" fill="#C8B79A"/><rect y="22" width="150" height="10" rx="3" fill="#3E4642"/></g>
 </svg>
 <div class="chalk"><svg class="fx" width="1080" height="1440"><g class="art">{bunting()}</g>{hero()}
-<text x="90" y="430" font-family="{WK}" font-weight="700" font-size="166" letter-spacing="8" fill="url(#hl)" stroke="{W_}" stroke-width="11" stroke-linejoin="round" paint-order="stroke">体育课。</text></svg>
+<text x="90" y="430" font-family="{WK}" font-weight="700" font-size="156" letter-spacing="8" fill="url(#hl)" stroke="{W_}" stroke-width="11" stroke-linejoin="round" paint-order="stroke">体育课。</text></svg>
 <div class="demo">示意数据</div>
 
 <div class="pre">明天，有</div><div class="iss">第 {ISSUE} 期</div>

diff --git a/marketing/digest/rally.py b/marketing/digest/rally.py
@@ -12,7 +12,7 @@ def art():
     bx, by = 860, y0 + k * 860       # 球正好压在斜线上
     streaks = ''.join(f'<path d="M{bx-70-d*1.2:.0f} {by-38-o:.0f} L{bx-70-d*1.2-L:.0f} {by-38-o-L*.26:.0f}" stroke="{c}" stroke-width="{w}" stroke-linecap="round" opacity="{op}"/>'
                       for d, o, L, w, c, op in [(0, -6, 230, 6, LIME, .9), (30, 22, 300, 4, CREAM, .5), (10, 50, 180, 3, LIME, .6), (60, -30, 150, 2, CREAM, .4), (90, 76, 110, 2, LIME, .35)])
-    return f'''<svg class="art" width="1080" height="1440" viewBox="0 0 1080 1440"><defs>{lib.COMMON}
+    return f'''<svg class="artbg" width="1080" height="1440" viewBox="0 0 1080 1440"><defs>{lib.COMMON}
 <linearGradient id="nite" x1="0" y1="0" x2="1" y2="1"><stop offset="0" stop-color="#0E4A35"/><stop offset=".7" stop-color="{DEEP}"/><stop offset="1" stop-color="#062419"/></linearGradient>
 <linearGradient id="lm" x1="0" y1="0" x2="0" y2="1"><stop offset="0" stop-color="#D4F04E"/><stop offset="1" stop-color="#BFE23A"/></linearGradient></defs>
 <rect width="1080" height="1440" fill="url(#lm)"/>
@@ -34,7 +34,7 @@ def html():
     return f'''<!doctype html><meta charset="utf-8"><style>
 *{{margin:0;padding:0;box-sizing:border-box}} s,em{{text-decoration:none;font-style:normal}}
 body{{width:1080px;height:1440px;overflow:hidden;font-family:{SANS};color:{DEEP};position:relative;background:{LIME}}}
-.art{{position:absolute;inset:0}} .grain{{position:absolute;inset:0;opacity:.12;mix-blend-mode:overlay}}
+.artbg{{position:absolute;inset:0}} .grain{{position:absolute;inset:0;opacity:.12;mix-blend-mode:overlay}}
 .top{{position:absolute;left:72px;top:64px;font-family:{NUM};font-weight:600;font-size:14px;letter-spacing:6px;color:{CREAM};opacity:.7}}
 .big{{position:absolute;left:44px;top:118px;font-family:{NUM};font-weight:900;font-size:360px;line-height:.73;letter-spacing:-18px;color:{LIME};transform:skewX(-11deg);transform-origin:left bottom}}
 .h{{position:absolute;left:520px;top:150px;font-family:{SANS};font-weight:900;font-size:66px;line-height:84px;color:{CREAM};letter-spacing:2px}} .h em{{color:{LIME}}}

diff --git a/marketing/digest/README.md b/marketing/digest/README.md
@@ -6,6 +6,7 @@
 |---|---|
 | `timetable.py` | 明日时刻表，**HTML/CSS 排版**（换行、截断、对齐交给浏览器），`dark` / `light` 两套主题 |
 | `chalk.py` | **时刻表「黑板」版**：「明天，有体育课。」——球局表写成黑板上的课程表（第一节…、午休、晚自习），右上角老师写的日期天气和「值日：南伴球」；空位是黄绿粉笔圈、已有人是涂满的白圈；粉笔颗粒用 SVG 滤镜，黑板有擦痕和上节课残影（15·30·40、Deuce），底部金属粉笔槽。字体霞鹜文楷（OFL），`DIGEST_FONTS` 指向 lxgw-wenkai-webfont 解压目录 |
+| **模板系统** | 黑板报 = **皮肤（每周一换）× 创意（每天轮换）**。皮肤在 `chalkframe.SKINS`：赶集 fair · 春日 meadow · 夜场 night · 花园 garden · 线描 doodle · 国风 guofeng，各自定板色、边框、顶部 / 底部 / 两侧装饰、标题字效（排线 / 多色 / 霓虹 / 空心 / 朱红金边）、信息框样式；装饰只放顶部、底部、四角和边框内侧，标 `class="art"`。创意在 `chalk4.py`：roll / notes / seats。`chalkframe.pick(日期)` → (皮肤, 创意)：皮肤按 ISO 周轮换，创意按星期。出图写法 `chalk4:创意@皮肤`，如 `chalk4:notes@night` |
 | `chalkframe.py` · `chalk4.py` | **立式小黑板三版（最新推荐）**，共用挂板底子（原木框、彩旗、粉笔槽）：`chalk4:roll`「还有谁没到？」点名册（「到」字笔迹各不相同、举手、晚场叫「放学别走」）· `chalk4:notes`「传纸条。」（磁铁吸在黑板上的真纸条：去吗？□去 □当然去）· `chalk4:seats`「这里有人吗？」（讲台 + 座位表，有人的桌上放着书包，空座是黄绿虚线） |
 | `chalk3.py` | **黑板报「挂板」版（最新）**：墙上挂一块带原木框和粉笔槽的墨绿黑板，顶部粉笔三角彩旗；大标题「体育课。」白描边 + 黄绿排线填色；右上彩色粉笔画的球拍和网球（排线上色、高光、速度线、星星）；下半「明日课表」框分上午 / 下午两栏，日期像标签嵌在框线上 |
 | `chalkbase.py` · `chalk2.py` | **黑板报另外四版**（共用黑板底子）：`chalk2:quiz` 应用题（问：你去哪一局？解：…答：我去第 __ 局）· `chalk2:roll` 点名册（「到」和等你喊到的空格）· `chalk2:count` 倒计时（距明天第一局开打还有 N 小时）· `chalk2:tactic` 战术板（先报名，再上网。球场上 ①→⑧ 压向网前） |
@@ -22,7 +23,7 @@
 
 出图：`python3 marketing/digest/render.py [chalk4:roll chalk4:notes chalk4:seats chalk3 chalk chalk2:quiz chalk2:roll chalk2:count chalk2:tactic invite:spring invite:dusk rally editorial:noir editorial:atelier dayline timetable:dark timetable:light treasure join]`（输出到 `$DIGEST_OUT`，默认 `/tmp/digest_out`）
 
-**自动检查**：① 文字出界 / 互相压住（按真实笔画上下沿算，HTML 和 SVG 都查）/ 被省略号截断 / 被插画压住（标 `class="art"` 的图形） ② 二维码解码后是 nanbanqiu.app 的网址 ③ 数字核对两层：页面上排出的文字里逐字有「13 个空位」「8 局在找人」等；标题里的空位数按它在页面上的位置截出来做 OCR，读出来必须**完全等于**数据（已验证：把期望改成 31 会报错）。
+**自动检查**：① 文字出界 / 互相压住（按真实笔画上下沿算，HTML 和 SVG 都查）/ 被省略号截断 / 被插画压住（标 `class="art"` 的图形；HTML 和 SVG 文字都查，按真实墨迹算；`data-fx` 是有意叠在正文上的光晕 / 影子层，不查） ② 二维码解码后是 nanbanqiu.app 的网址 ③ 数字核对两层：页面上排出的文字里逐字有「13 个空位」「8 局在找人」等；标题里的空位数按它在页面上的位置截出来做 OCR，读出来必须**完全等于**数据（已验证：把期望改成 31 会报错）。
 
 **依赖**（新增的要随 ADR 0009 一起批）：Playwright（Python）+ Noto CJK（同 `build.py`）；新：`segno`（画二维码）、`zxing-cpp`（解码校验）、Tesseract + chi_sim（OCR）、Inter 字体（数字，OFL 开源）、霞鹜文楷（黑板版手写字，OFL 开源，npm `lxgw-wenkai-webfont`）。
 

diff --git a/docs/adr/0009-每日球局海报.md b/docs/adr/0009-每日球局海报.md
@@ -113,6 +113,7 @@
 - **出图闸门再加一项**：颜色对比度自动检查（正文 ≥ 4.5:1，大号数字 ≥ 3:1），Rally 版的热红在黄绿上 3.0 是手算的。
 - **尺寸（11-08 定）**：小红书一律竖版 3:4（双列信息流里 3:4 封面面积是 4:3 横版的约 1.8 倍；一般按首图比例显示整组，不竖横混用，发帖前在草稿里核实）。按 1080×1440 设计、2 倍渲染，导出 1440×1920 JPG（质量 92）上传。黑板报用「立式小黑板」（竖的挂板 / 门口小黑板）理解，不硬做横版；横版 4:3 只在朋友圈、公众号、打印时另出。
 - **黑板报创意筛选标准（所有者 11-08 点评后定）**：学校场景必须正好对应「报名加入一局」这个动作、是大家真说过的话（点名喊「到」、传纸条打勾、占座「这里有人吗？」）；应用题这类硬套的不用。
+- **模板系统（11-08）**：黑板报拆成「皮肤 × 创意」。皮肤每周一换（6 套：赶集 / 春日 / 夜场 / 花园 / 线描 / 国风），创意每天轮换（点名册 / 传纸条 / 占座），共 18 种组合，`chalkframe.pick(日期)` 决定当天用哪个。以后加节日皮肤（春节、中秋、澳网季等，只用通用元素、不用赛事标识）只需在 `SKINS` 里加一项，按日期优先于轮换。
 - **新依赖**（随本 ADR 批）：霞鹜文楷（黑板版）；segno、zxing-cpp、Tesseract（chi_sim）、Inter 字体。
 - 新增待定：**D10** 水平叫法与分档（提议 新手 <2.5 · 进阶 2.5–3.5 · 中级 3.5–4.5 · 中高 4.5–5.5 · 高手 ≥5.5）；**D11** 天气来源（建议澳洲气象局公开预报，取不到就不显示这一项）；**D12** 时刻表风格：所有者 11-08 又要「黑板报风，但现代、有品位、有回忆和共鸣」→ 新增**黑板版五款**（`chalk.py`「明天，有体育课。」+ `chalk2.py` 应用题 / 点名册 / 倒计时 / 战术板，可按星期轮换，见 `样稿/黑板-*.jpg`；首款，见 `样稿/信息流对比-黑板.jpg`；新字体霞鹜文楷 OFL）；此前推荐「邀请函」版（`invite.py`，所有者 11-08 给了两张发布会邀请函作参考：要质感、色彩轻、有加入的感染力；春 / 暮两套，见 `样稿/信息流对比-邀请函.jpg`）。更早：所有者要「热情、汗水、多巴胺、吸引年轻人」→ 新增 **Rally 版**（`rally.py`：斜切构图 + 满版荧光黄绿 + 前倾超粗数字 + 速度线 + 唯一热红强调；新增强调色 #E8381A 需所有者批准进品牌色），对比见 `样稿/信息流对比-Rally.jpg`；之前推荐的编辑排版版（`editorial.py`，减法：只靠字号、字重、留白、细线；Noir 纯黑 + 侧光网球 / Atelier 象牙纸 + 衬线，见 `样稿/信息流对比-编辑排版.jpg`）；所有者 11-08 评「底色 + 一条条横卡片」太土，「一天」版（`dayline.py`：天色渐变 + 时间轴卡片 + 网球空位 + 超大空位数），建议它做封面、浅色版做分页；三版对比见 `样稿/信息流对比-三版时刻表.jpg`。
 
